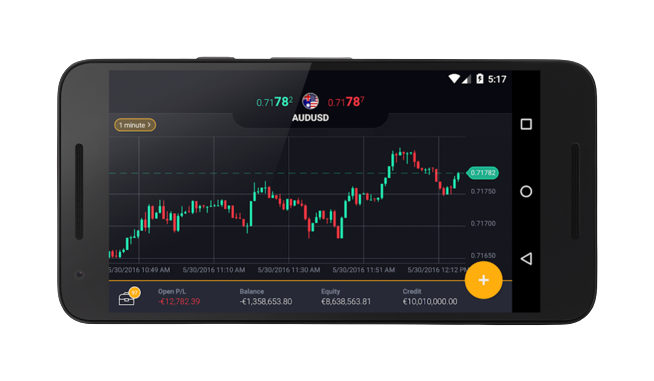
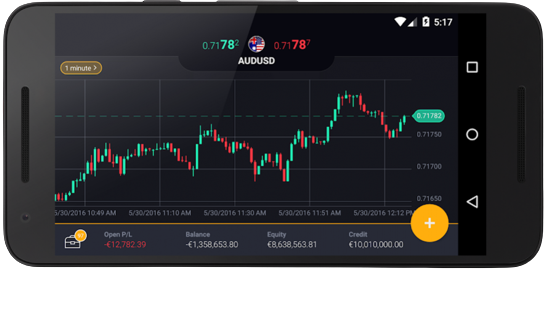
modified responsiv on section 1

diff --git a/coin/src/Components/ElementHomePage/Section_1.jsx b/coin/src/Components/ElementHomePage/Section_1.jsx
@@ -4,26 +4,40 @@ import landescapMobile from '../../asset/mobile3.png';
 import ScrollAnimation from 'react-animate-on-scroll';
 import "animate.css/animate.min.css";
 const Div = styled.div`
-    width:70%;
+    width:75%;
     height:700px;
-    padding:50px;
     display:flex;
-    justify-center:center;
+    justify-content:space-between;
+    /* background-color: aqua; */
    
     div {
         width:90%;
-        padding:15px;
         display:flex;
-        flex-direction:column;
-        justify-content:center;
         align-items:center;
     }
+   
     @media screen and (max-width:1400px){
         flex-direction: column;
     }
 `;
+const Element1 = styled.div`
+    display: flex;
+    justify-content: start;
+    @media screen and (max-width:1400px){
+        justify-content: center;
+        margin-top: 20px;
+    }
+`;
+const Element2 = styled.div`
+  display :flex ;
+  justify-content: end;
+  @media screen and (max-width:1400px){
+        justify-content: center;
+}
+
+`;
 const Img = styled.img`
-    width:100%;
+    width:90%;
 `;
 
 
@@ -40,16 +54,17 @@ const Section_2 = () => {
 // -------------------------------------------
     return (
         <Div>
-                <div>
+                <Element1>
                     <Img src={landescapMobile} alt='Trading'/>
-                </div>
-                <div>
-                    <div className="content-container" onScroll={handleScroll}>
-                        <h1>Buy, trade, and hold 350+ cryptocurrencies on Binance</h1>
+                </Element1>
+                <Element2>
+                    <div style={{display:'flex',flexDirection:'column' , justifyContent:'space-around'}} className="content-container" onScroll={handleScroll}>
+                        <h1>Buy, trade, and hold 350+ cryptocurrencies on Younicoin</h1>
                         <p>Trade some of the world’s largest and most popular companies, including Amazon, Netflix, Tesla and many more.  </p>
                         <p>Maximise your trading opportunities with CFD shares and benefit from the price movements with a lower investment. MultiBank Group offers more than 20,000 shares tochoose from the largest multinational companies, with margin requirements as low as 5%. </p>
+                        <p>All at Younicoin</p>
                     </div>
-                </div>
+                </Element2>
         </Div>
     )
 }
